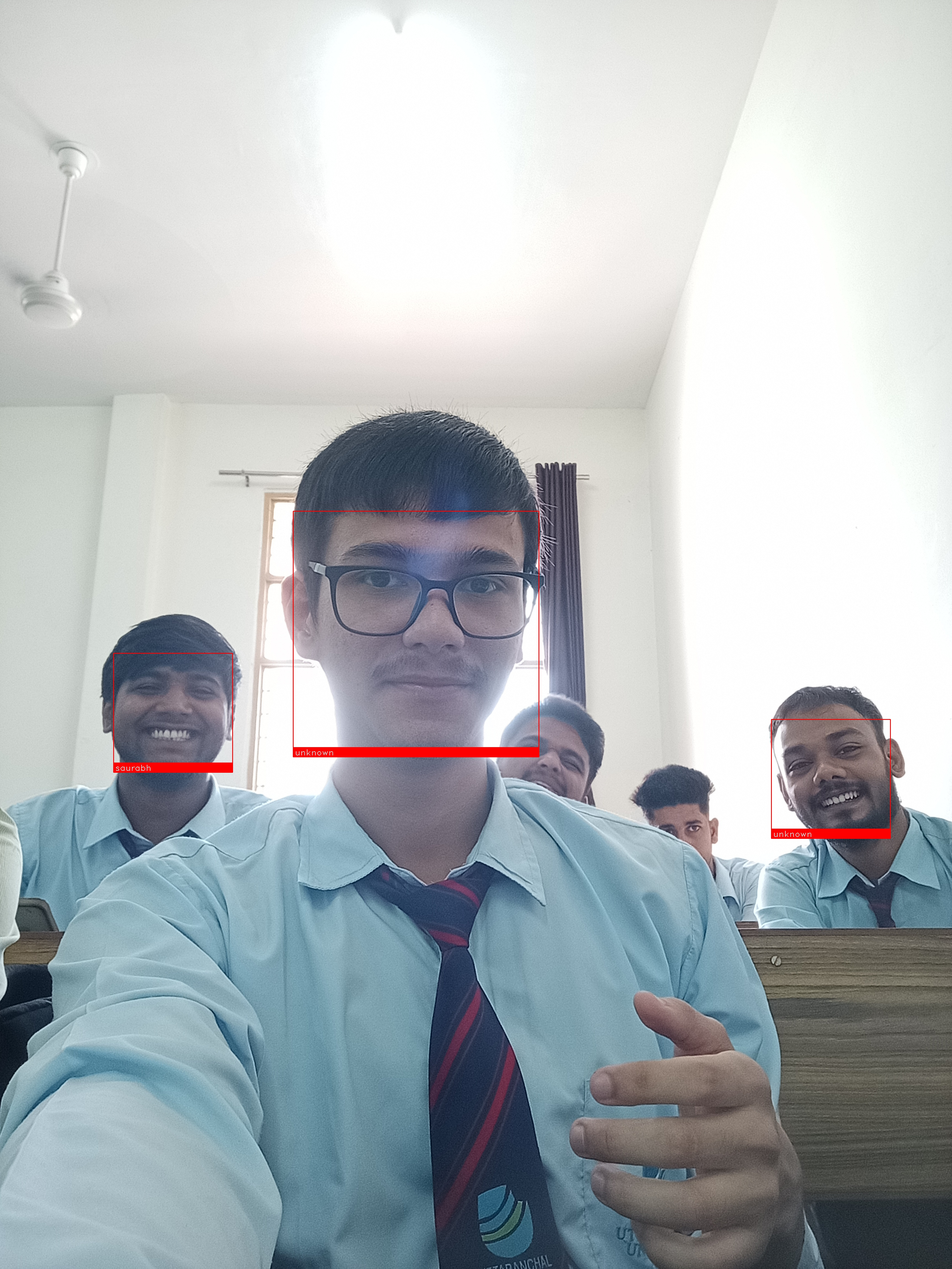
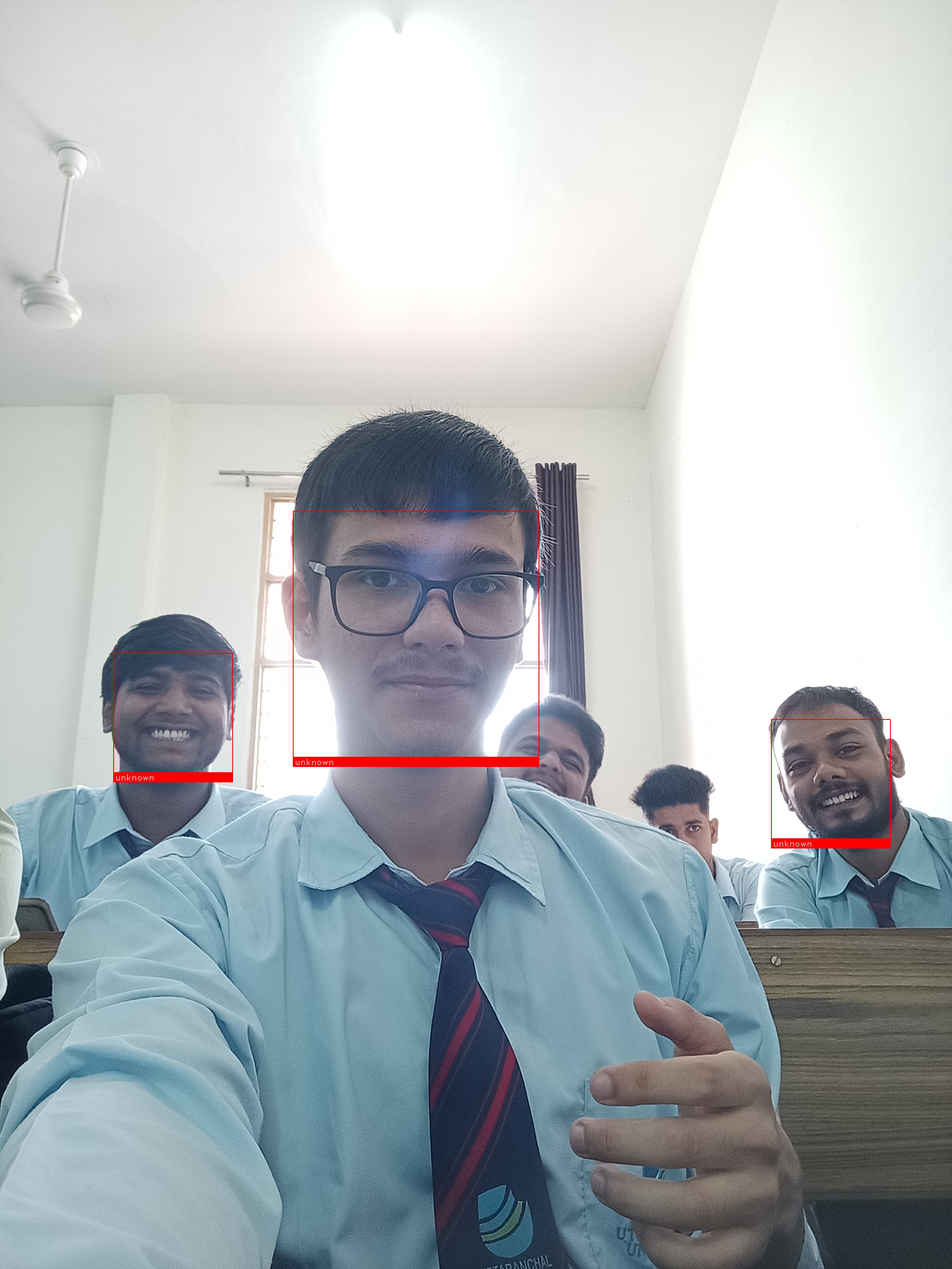
just working

Changed region(s): [[0.3125, 0.5625, 0.5625, 0.625], [0.8125, 0.625, 0.9375, 0.6875], [0.125, 0.5938, 0.25, 0.625]]

diff --git a/main.py b/main.py
@@ -2,29 +2,32 @@ import sys
 import threading
 import time
 import customtkinter as ctk
+
+import faceAPI.mainAPI
 import ui_
 from PIL import Image
 import cv2
 from pathlib import Path
-from multiprocessing import Array , Process
+from multiprocessing import Array, Process
 
 sys.path.append("faceAPI")
 from faceAPI import mainAPI
 
 width, height = 800, 600
 
-
-# Set the width and height 
+# faceAPI.mainAPI.SavedEncoding.encode_known_encoding()
+# Set the width and height
 
 class App(ctk.CTk):
-    cam_h, cam_w = 800, 200
+    cam_h, cam_w = height, width
     lastTime = 0
     lastFpsTick = 0
     data = {"persons": [], "face_locations": []}
     lastFrame = False
     kill = False
+    arr = [0, 0]
 
-    sharedArr = Array('i')
+    # sharedArr = Array('i')
     faceAPIProcess = False
 
     def stopThread(self):
@@ -35,7 +38,7 @@ class App(ctk.CTk):
         super().__init__()
 
         self.protocol("WM_DELETE_WINDOW", self.stopThread)
-        self.geometry("800x400")
+        self.geometry(str(width) + "x" + str(height))
         self.title("Abhay")
 
         self.mainFrame = ui_.MainFrame(self)
@@ -57,11 +60,11 @@ class App(ctk.CTk):
 
     def initCamera(self):
         self.cap = cv2.VideoCapture(0)
+        self.update()
         self.cap.set(cv2.CAP_PROP_FRAME_WIDTH, width)
         self.cap.set(cv2.CAP_PROP_FRAME_HEIGHT, height)
-        self.update()
         mainAPI.FaceAPI.init()
-        # self.faceAPIThread = threading.Thread(target=App.identifyFaces, args=(self,))
+        # self.faceAPIThread = threading.Thread(target=App.identifyFaces, args=(self,), daemon=True)
         # self.faceAPIThread.start()
 
     def updateFPS(self):
@@ -83,10 +86,20 @@ class App(ctk.CTk):
             try:
                 frame = cv2.flip(frame, 1)
                 frame = cv2.cvtColor(frame, cv2.COLOR_BGR2RGB)
-                # (persons, face_locations) = mainAPI.FaceAPI.identify(frame, mainAPI.SavedEncoding.encodings)
+
+                # self.arr[0] = frame
+                (persons, face_locations) = mainAPI.FaceAPI.identify(frame, mainAPI.SavedEncoding.encodings)
+                # self.data = mainAPI.FaceAPI.identify(frame, mainAPI.SavedEncoding.encodings)
+
                 self.lastFrame = frame
-                if len(self.data["face_locations"]) > 0:
-                    mainAPI.FaceAPI.drawBox(frame, self.data["face_locations"], self.data["persons"])
+
+                if(len(persons) > 0):
+                    mainAPI.FaceAPI.drawBox(frame, face_locations, persons)
+                # if len(self.data["face_locations"]) > 0:
+                #     mainAPI.FaceAPI.drawBox(frame, self.data["face_locations"], self.data["persons"])
+
+                # if self.arr[1] and len(self.arr[1][0]) > 0:
+                #     mainAPI.FaceAPI.drawBox(frame, self.arr[1][1], self.arr[1][0])
 
                 image = Image.fromarray(frame)
                 image_obj = ctk.CTkImage(image, size=(self.cam_w, int(self.cam_h)))
@@ -101,12 +114,14 @@ class App(ctk.CTk):
             self.quit()
 
     @staticmethod
-    def identifyFaces(arr):
-        while (not arr[2]):
-            frame = arr[0]
+    def identifyFaces(me):
+        while (not me.kill):
+            if not me.arr[0] :
+                continue
+            frame = me.arr[0]
             (persons, face_locations) = mainAPI.FaceAPI.identify(frame, mainAPI.SavedEncoding.encodings)
-            arr[1] = (persons, face_locations)
-            # time.sleep(0.01)
+            me.arr[1] = (persons, face_locations)
+            time.sleep(0.01)
 
     def on_resize(self, event):
         # screen_height = event.height

diff --git a/faceAPI/mainAPI.py b/faceAPI/mainAPI.py
@@ -8,17 +8,19 @@ import os
 
 cwd = os.sep.join(__file__.split(os.sep)[:-1])
 DEFAULT_ENCODINGS_PATH = Path(os.path.join(cwd,"output/encodings.pkl"))
+DEFAULT_TRAINING_PATH = Path(os.path.join(cwd, "training"))
 
 Path(os.path.join(cwd,"training")).mkdir(exist_ok=True)
 Path(os.path.join(cwd,"output")).mkdir(exist_ok=True)
 Path(os.path.join(cwd,"validation")).mkdir(exist_ok=True)
 
 class SavedEncoding :
-    encodings = {"persons" : [], "encodings":[]}
-    # { person : [(person_id, person_name)]  , encodings : [NDArray] }
+    encodings = {"persons": [], "encodings": []}
+    # { persons : [(person_id, person_name)]  , encodings : [NDArray] }
 
     @staticmethod
     def loadEncoding(encodings_location : Path = DEFAULT_ENCODINGS_PATH):
+        # SavedEncoding.encode_known_encoding()
         if not os.path.isfile(encodings_location) :
             return
         with encodings_location.open(mode="rb") as f:
@@ -38,6 +40,34 @@ class SavedEncoding :
     def getEncodings():
         return SavedEncoding.encodings
 
+    def encode_known_encoding(
+            model: str = "hog", encodings_location: Path = DEFAULT_ENCODINGS_PATH
+    ) -> None:
+        # names = []
+        persons  = []
+        encodings = []
+        for filepath in Path("training").glob("*/*"):
+            # name = filepath.parent.name
+            # image = face_recognition.load_image_file(filepath)
+            dirname = filepath.parent.name.split("_")
+            image = FaceAPI.loadImage(str(filepath))
+            name = "_".join(dirname[:-1])
+            _id = dirname[-1]
+
+            face_locations = face_recognition.face_locations(image, model=model)
+            face_encodings = face_recognition.face_encodings(image, face_locations)
+
+            for encoding in face_encodings:
+                # names.append(name)
+                persons.append((_id, name))
+                encodings.append(encoding)
+
+        name_encodings = {"persons" : persons, "encodings":encodings}
+
+        # print("name_encodings", name_encodings)
+        with encodings_location.open(mode="wb") as f:
+            pickle.dump(name_encodings, f)
+
 class FaceAPI: 
 
     @staticmethod
@@ -45,7 +75,10 @@ class FaceAPI:
         SavedEncoding.loadEncoding()
 
     @staticmethod
-    def identify(frame, savedEncoding = SavedEncoding.getEncodings()):
+    def identify(frame, savedEncoding = False):
+        if not savedEncoding :
+            savedEncoding = SavedEncoding.getEncodings()
+
         rgb_small_frame = cv2.resize(frame, (0, 0), fx=0.25, fy=0.25)
         # rgb_small_frame = small_frame[:, :, ::-1]
         face_locations = face_recognition.face_locations(rgb_small_frame)
@@ -79,6 +112,7 @@ class FaceAPI:
             right *= 4
             bottom *= 4
             left *= 4
+            bottom += 35
 
             id, name = person
 
@@ -93,11 +127,11 @@ class FaceAPI:
 
     
     @staticmethod
-    def addPerson(image, name, pid=-1):
+    def addPerson(image, name, pid=-1, saveEncoding : bool = True):
         face_encoding = face_recognition.face_encodings(image)
         for encoding in face_encoding:
             SavedEncoding.addEncoding(encoding, name, pid)
-        SavedEncoding.saveEncoding()
+        saveEncoding and SavedEncoding.saveEncoding()
 
     @staticmethod
     def loadImage(imagePath:str):

diff --git a/faceAPI/test.py b/faceAPI/test.py
@@ -1,3 +1,4 @@
+import pickle
 from pathlib import Path
 import mainAPI
 import os
@@ -7,26 +8,12 @@ img_path = (os.path.join(cwd, 'validation', "unknown", "group.jpg"))
 output_loc = (os.path.join(cwd, "validation", "labeled", "group_labeled.jpg"))
 
 
-def train():
-    tdir = Path(os.path.join(cwd, "training"))
-    print(tdir)
-
-    for filepath in tdir.glob("*/*"):
-        dirname = filepath.parent.name.split("_")
-        image = mainAPI.FaceAPI.loadImage(filepath)
-
-        name = "_".join(dirname[:-1])
-        id = dirname[-1]
-
-        mainAPI.FaceAPI.addPerson(image, name, id)
-
-
 def identify():
     e = mainAPI.SavedEncoding.encodings
     frame = mainAPI.FaceAPI.loadImage(img_path)
     persons, face_locations = mainAPI.FaceAPI.identify(frame, e)
 
-    print(persons, output_loc)
+    print(persons)
     mainAPI.FaceAPI.drawBox(frame, face_locations, persons)
     mainAPI.FaceAPI.saveImage(output_loc, frame)
     # _frame.save(output_loc)
@@ -35,6 +22,16 @@ def identify():
 
 
 mainAPI.FaceAPI.init()
-# train()
+# mainAPI.SavedEncoding.encode_known_encoding()
+
+
 # print(main.SavedEncoding.encodings)
+
+def read():
+    with Path(os.path.join("output", "encodings.pkl")).open(mode="rb") as f:
+        loaded_encodings = pickle.load(f)
+        print("encodings : ", loaded_encodings)
+
+
+read()
 identify()

diff --git a/mp.py b/mp.py
@@ -11,7 +11,7 @@ def processFunc (shm):
 
 if __name__ == "__main__":
     # shm = mp.SharedMemory(name="my_shm")
-    shm = shared_memory.SharedMemory(create=True, size=)
+    shm = shared_memory.SharedMemory(create=True, size=1024)
     shm.buf[:] = pickle.dumps({"val" : 1})
 
     p1 = mp.Process(target=processFunc, args=(shm,))

diff --git a/faceAPI/pickle_.py b/faceAPI/pickle_.py
@@ -1,0 +1,10 @@
+import pickle
+import os
+from pathlib import Path
+
+def read():
+    with Path(os.path.join("output", "encodings.pkl")).open(mode="rb") as f:
+        loaded_encodings = pickle.load(f)
+        print(loaded_encodings)
+
+read()
